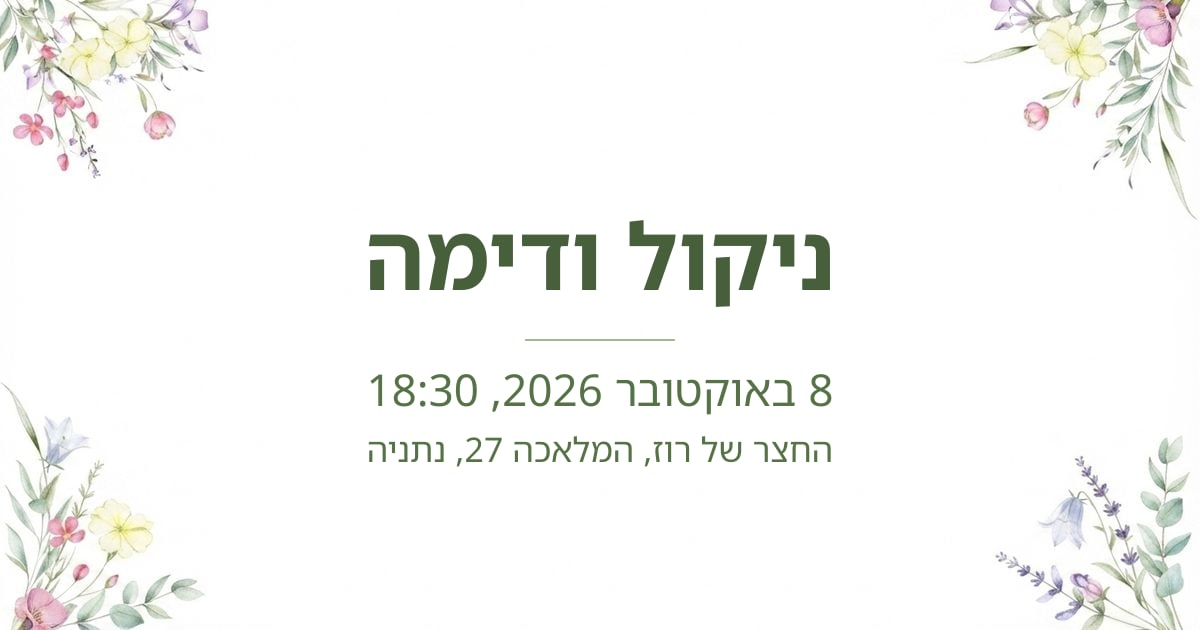
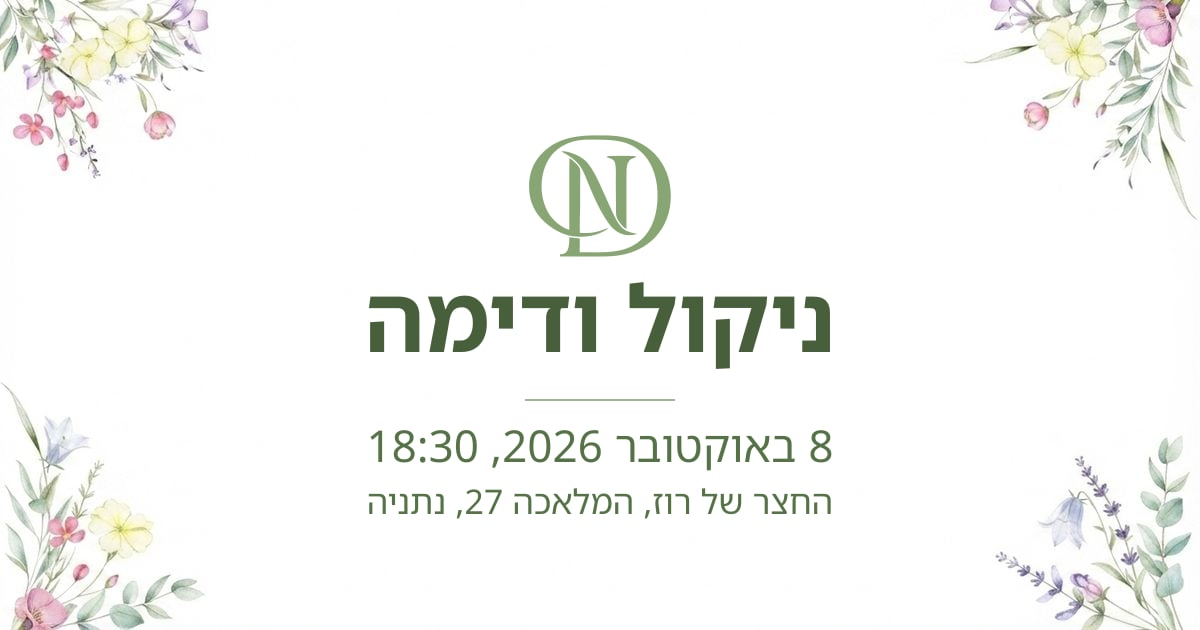
Put the couple's monogram on the card, the tab and the admin header
Dmitri supplied wedding-logo.svg, the ND mark traced from the invitation
artwork: three paths, 3.8 KB, #88A574.

Its viewBox was tightened before anything used it. The supplied file was
1002x877 with the mark sitting in the lower middle, so at favicon sizes it
rendered as a few green specks in a mostly empty square. Measured bounding box
275 364 466 399, plus ten units of padding.

The app icons replace the Next.js scaffold default, which was still there:
favicon.ico carrying 16/32/48 in one 2.7 KB file against the old 25 KB,
icon.png at 256 and apple-icon.png at 180. Next emits all three link tags from
the filenames alone. They are a white mark on a green tile rather than green on
white, because at 16px in a tab strip a mostly-white icon disappears into the
browser chrome — both were rendered at true size and compared before choosing.

The .ico container is written by hand in the build script rather than pulling in
a package for it: a six-byte header, one sixteen-byte directory entry per size,
then the PNGs. That is the whole format.

On the WhatsApp card the mark sits above the names, composited as its own layer
rather than referenced from inside the SVG text overlay — librsvg would have to
resolve a nested file reference, and a silently-missing one ships a card with a
hole in it. The text block moved down to make room. 49 KB, still far under the
600 KB budget.

In the admin header it goes through next/image with `unoptimized`: the image
[…]

Changed region(s): [[0.3083, 0.2111, 0.7092, 0.8143]]

diff --git a/scripts/build-og-card.ts b/scripts/build-og-card.ts
@@ -28,6 +28,11 @@ import { OG_CARD_HEIGHT, OG_CARD_MAX_BYTES, OG_CARD_PATH, OG_CARD_WIDTH } from '
 /** The landscape banner the card is built from. Not the portrait invitation. */
 const DEFAULT_SOURCE = 'public/assets/demo-og-source.jpg'
 
+/** The couple's monogram, sitting above the names. Same mark as the invitation. */
+const LOGO = 'public/assets/wedding-logo.svg'
+const LOGO_HEIGHT = 128
+const LOGO_TOP = 132
+
 /**
  * Above this, a source is landscape enough to fill the card by cropping a little
  * off its top and bottom. Below it — a portrait invitation — cropping would eat
@@ -136,12 +141,12 @@ function textOverlay({ couple, when, venue }: CardText): Buffer {
   // Each line is omitted rather than rendered blank when its field is unset, so
   // a half-filled wedding_config gives a sparser card, never a stray rule.
   const parts = [
-    couple && line(290, coupleFontSize(couple), INK_STRONG, 700, couple),
+    couple && line(352, coupleFontSize(couple), INK_STRONG, 700, couple),
     couple &&
       (when || venue) &&
-      `<line x1="${centre - 75}" y1="340" x2="${centre + 75}" y2="340" stroke="${RULE}" stroke-width="1.5"/>`,
-    when && line(406, 44, INK, 400, when),
-    venue && line(462, 34, INK, 400, venue),
+      `<line x1="${centre - 75}" y1="400" x2="${centre + 75}" y2="400" stroke="${RULE}" stroke-width="1.5"/>`,
+    when && line(462, 44, INK, 400, when),
+    venue && line(514, 34, INK, 400, venue),
   ].filter(Boolean)
 
   return Buffer.from(
@@ -190,8 +195,17 @@ async function main(): Promise<void> {
   const text = await readCardText()
   const destination = path.join('public', OG_CARD_PATH.replace(/^\//, ''))
 
+  // The monogram is composited as its own layer rather than embedded in the SVG
+  // overlay: librsvg would have to resolve a nested file reference, and a
+  // silently-missing one is a card that ships with a hole in it.
+  const logo = await sharp(LOGO).resize({ height: LOGO_HEIGHT }).png().toBuffer()
+  const { width: logoWidth } = await sharp(logo).metadata()
+
   await sharp(await composeArtwork(source))
-    .composite([{ input: textOverlay(text) }])
+    .composite([
+      { input: logo, top: LOGO_TOP, left: Math.round((OG_CARD_WIDTH - (logoWidth ?? 0)) / 2) },
+      { input: textOverlay(text) },
+    ])
     .jpeg({ quality: 86, mozjpeg: true })
     .toFile(destination)
 

diff --git a/app/admin/layout.tsx b/app/admin/layout.tsx
@@ -6,6 +6,7 @@
  * (lock #2). This layout does not gate anything — it just draws the frame.
  */
 
+import Image from 'next/image'
 import { AdminTabs } from '@/components/admin/admin-tabs'
 import { SignOutButton } from '@/components/admin/sign-out-button'
 import { strings } from '@/lib/strings'
@@ -15,7 +16,25 @@ export default function AdminLayout({ children }: { children: React.ReactNode })
     <div className="flex flex-1 flex-col">
       <header className="border-b border-border">
         <div className="mx-auto flex max-w-6xl items-center justify-between gap-4 px-4 py-3">
-          <h1 className="text-lg font-semibold">{strings.app.title}</h1>
+          <div className="flex items-center gap-2.5">
+            {/* The couple's monogram, the same mark the invitation carries.
+                Decorative beside the title, so it is hidden from screen
+                readers rather than read out as a second heading.
+
+                `unoptimized` because the source is SVG: the image optimiser
+                refuses SVG unless dangerouslyAllowSVG is turned on, and there
+                is nothing for it to do to a 3.8 KB vector anyway. */}
+            <Image
+              src="/assets/wedding-logo.svg"
+              alt=""
+              aria-hidden
+              width={30}
+              height={26}
+              unoptimized
+              priority
+            />
+            <h1 className="text-lg font-semibold">{strings.app.title}</h1>
+          </div>
           <SignOutButton />
         </div>
         <div className="mx-auto max-w-6xl px-4 pb-2">

diff --git a/docs/progress.md b/docs/progress.md
@@ -209,7 +209,7 @@ The palette green also confirms the artwork: sampling the invitation's own ink g
 - **Phone background — 1290×2796 (9:19.5, the phone's own shape).** Not 1080×1920: modern phones are taller than 16:9. Florals rearranged into a tall frame. Keep the top ~320px and bottom ~520px clear of anything load-bearing — the greeting and action bar sit there. JPEG, ≤400 KB so it paints on cellular.
 - **WhatsApp card — 1200×630 landscape.** Names and date legible as a chat thumbnail. Under 600 KB or WhatsApp drops the preview.
 
-**The WhatsApp card is a committed file, not a rendered route** (built 2026-07-31). `npm run og-card [source]` → `public/assets/og-card.jpg`, 1200×630, currently **45 KB**: the floral banner in `public/assets/demo-og-source.jpg` with the names, date and venue painted into its centre from `wedding_config`. Things worth knowing before touching it:
+**The WhatsApp card is a committed file, not a rendered route** (built 2026-07-31). `npm run og-card [source]` → `public/assets/og-card.jpg`, 1200×630, currently **49 KB**: the floral banner in `public/assets/demo-og-source.jpg` with the monogram, then the names, date and venue painted into its centre from `wedding_config`. Things worth knowing before touching it:
 
 - **It does not follow the settings tab.** A page re-reads config on every request; a file does not. Change the date in `/admin/settings` and the card keeps showing the old one until someone re-runs the script — silently, because every screen in the app will be correct. This is the most likely way the card goes wrong.
 - **Hebrew is painted through an SVG overlay, NOT `next/og`.** Satori, which `next/og` uses, does no bidirectional reordering: `ניקול ודימה` renders as `המידו לוקינ` — right glyphs, laid out left-to-right. It looks like a font problem and no font fixes it. librsvg shapes through Pango, which implements bidi, and gets both the Hebrew and the mixed Hebrew/number date line right. Verified by rendering both.
@@ -218,6 +218,12 @@ The palette green also confirms the artwork: sampling the invitation's own ink g
 - **Portrait art cannot fill a landscape slot, and WhatsApp resolves that by cropping from the centre** — straight through the floral arch. The script composes the exact 1200×630 frame instead: a landscape source is cropped to fill, a portrait one is fitted whole onto its own sampled paper colour.
 - **`generateMetadata` takes no arguments on purpose.** It runs on the crawler's fetch. Without the token it *cannot* look an invite up, so the "never mark `opened` server-side" rule holds by construction rather than by remembering to. If you ever give it `searchParams`, you have re-opened the bug that flips every invite to `opened` the day they are sent.
 - **`sharp` is a devDependency and script-only.** It was already in the tree as a `next` dependency; declaring it stops `npm prune` removing it. Never import it from `app/` or `lib/`.
+
+**The monogram is one file, `public/assets/wedding-logo.svg`** (Dmitri's, 2026-07-31) — the couple's ND mark traced from the invitation, three paths, 3.8 KB, `#88A574`. It appears on the WhatsApp card, in the admin header, and as the app icons. **Its viewBox was tightened before use:** the supplied file was 1002×877 with the mark sitting in the lower middle, which at 32 px renders as a few green specks in a mostly empty square. The trimmed box is `275 364 466 399` plus 10 units of padding.
+
+The icons are built from it: `app/favicon.ico` (16/32/48 in one 2.7 KB file, replacing the 25 KB Next default), `app/icon.png` 256, `app/apple-icon.png` 180 — Next emits all three `<link>` tags from the filenames alone, no config. They are a **white mark on a green tile**, not green on white: at 16 px in a tab strip a mostly-white icon disappears into the browser chrome. Rebuilding them is a scratchpad script, not a repo one — it has run once and the outputs are committed.
+
+In the admin header the mark goes through `next/image` with `unoptimized`. The optimiser refuses SVG unless `dangerouslyAllowSVG` is turned on, and there is nothing it can do to a 3.8 KB vector — turning that flag on to no benefit would be the wrong trade.
 
 **The card's source banner must be textless.** `public/assets/demo-og-source.jpg` was generated by Dmitri from an AI prompt (2026-07-31) — corner florals in the invitation's palette around an empty white middle, which is the space the names sit in. Ask any image generator for Hebrew and it returns letter-shaped nonsense, so the words are always composited afterwards by the script, never drawn by the tool.
 
